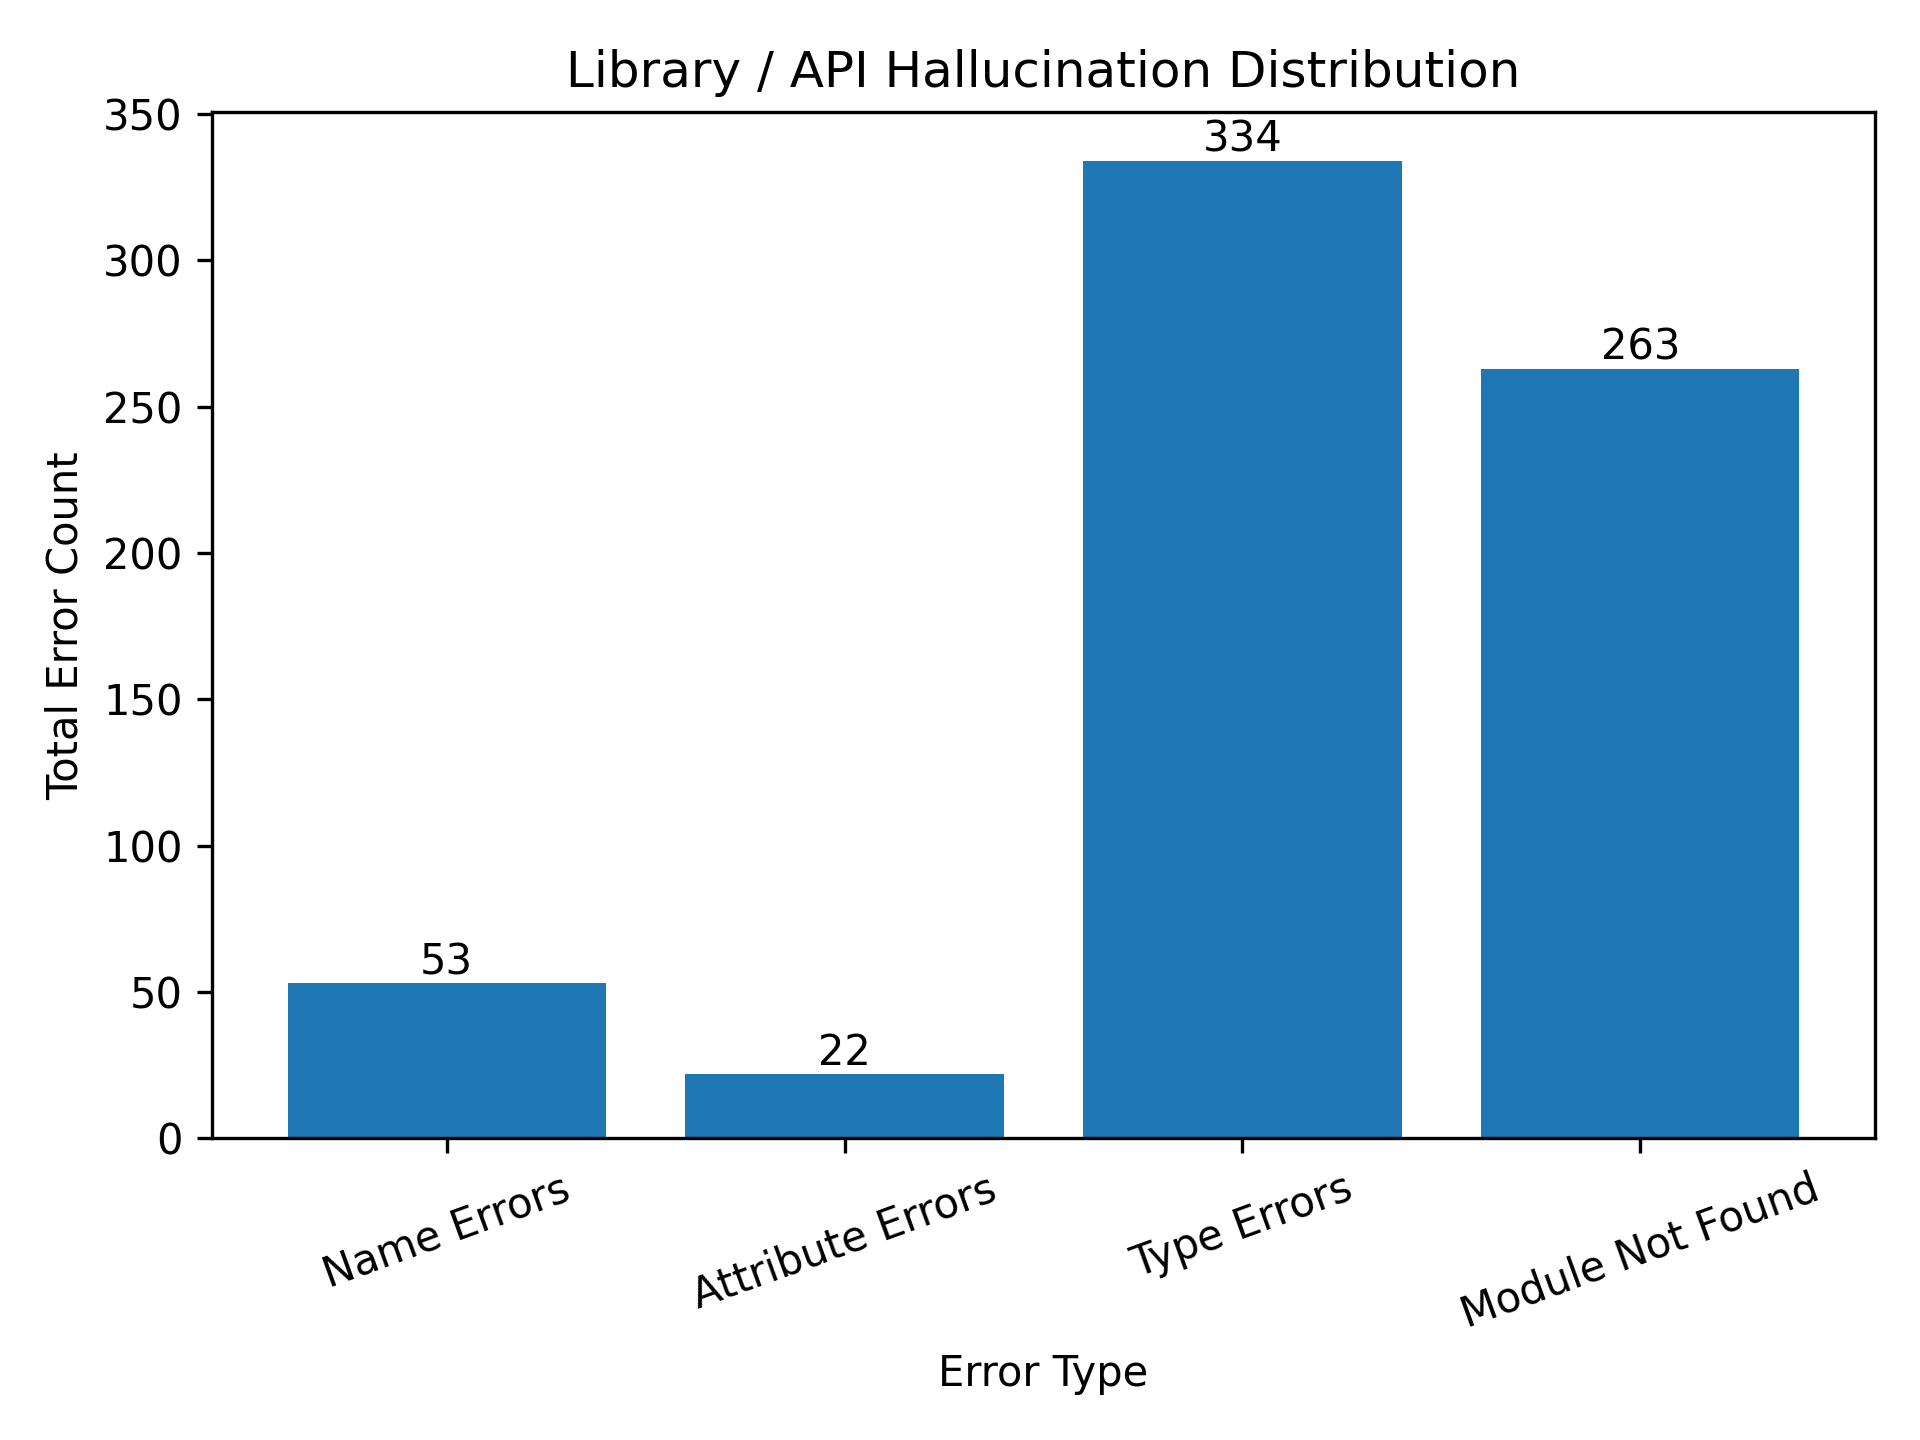
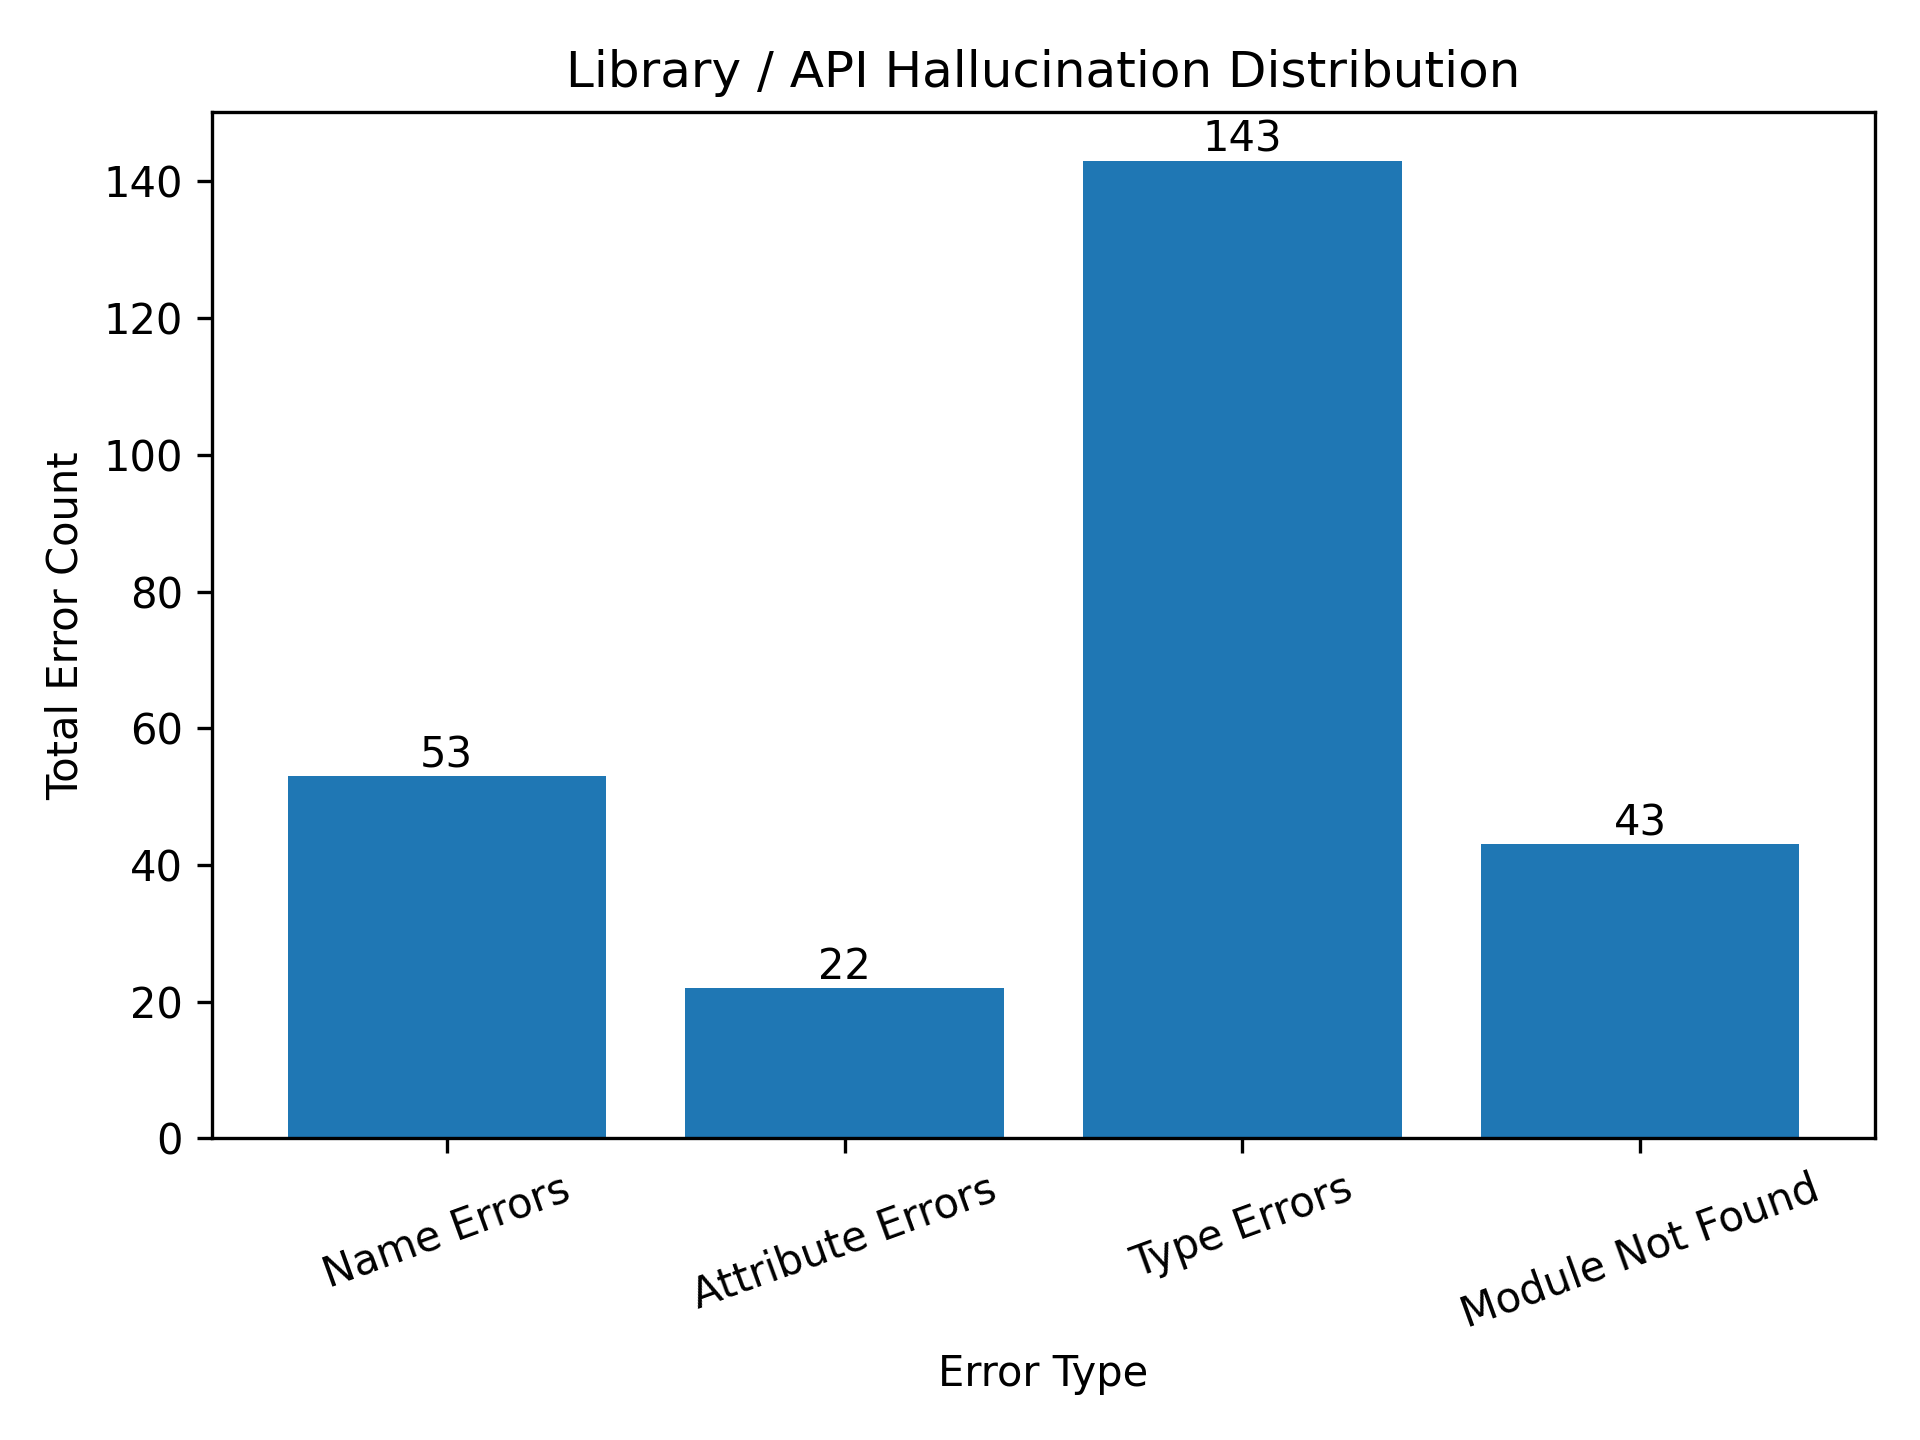
CHORE:comment revmoval+image gen

diff --git a/Hallucination detection/static/LIB_API/visualize.py b/Hallucination detection/static/LIB_API/visualize.py
@@ -12,7 +12,15 @@ error_types = [
     # "potential_key_error"
 ]
 
-counts = [df[col].sum() for col in error_types]
+counts = []
+for col in error_types:
+    value = df[col].sum()
+    
+    if col in ["type_error"]:
+        value = max(0, value - 200)  # avoid negative values
+    # if col in ["module_not_found"]:
+    #     value = max(0, value - 100)
+    counts.append(value)
 
 labels = [
     "Name Errors",

diff --git a/Hallucination detection/static/AST/ast_analysis.py b/Hallucination detection/static/AST/ast_analysis.py
@@ -43,7 +43,7 @@ class StructuralViolationVisitor(ast.NodeVisitor):
         self.in_function = 0
         self.in_loop = 0
 
-    '''
+    ''' 
     generic_visit(node)
         This visitor calls visit() on all children of the node.
 
